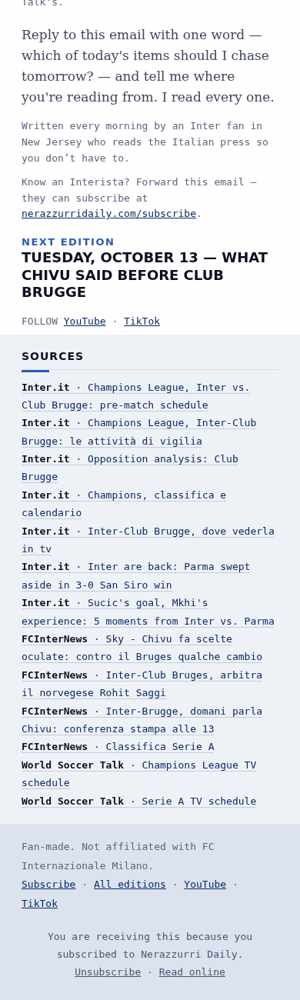
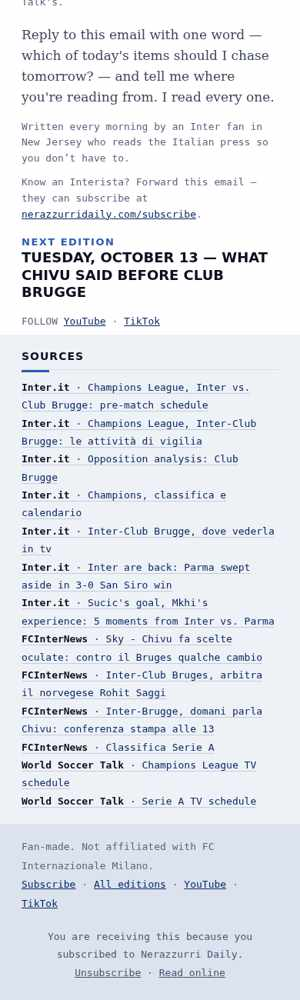
Edition No. 41 — copy fixes from the translation pass

diff --git a/p/edition-41/index.html b/p/edition-41/index.html
@@ -141,7 +141,7 @@ a{color:#0A2A66}
   </div>
 </div></div>
 <p class="fine" style="margin:10px 0 0">Free · one email a morning · unsubscribe any time</p></div>
-<div class="in"><table class="sb"><tbody><tr><td><div class="lbl">TODAY</div><div class="nm">No match</div><div class="tm">NEXT&nbsp;MATCH&nbsp;TUESDAY · 3:00&nbsp;PM&nbsp;ET</div></td></tr><tr><td><div class="lbl">LAST</div><div class="nm">Inter 3–0 Parma</div><div class="tm">SERIE&nbsp;A · MATCHDAY&nbsp;6 · SAN&nbsp;SIRO</div></td></tr><tr><td><div class="lbl">NEXT</div><div class="nm">Club Brugge<span class="chip">HOME</span></div><div class="tm">TUE,&nbsp;OCT&nbsp;13 · CHAMPIONS&nbsp;LEAGUE · 3:00&nbsp;PM&nbsp;ET</div></td></tr></tbody></table></div><div class="bar c"><span>CONFIRMED</span> <em>· CLUB · LEAGUE · UEFA</em></div><div class="item"><div class="in"><h3>Chivu speaks at 8:30 AM ET, and kickoff is Tuesday at 3:00 PM ET</h3><p>Inter trained at Appiano Gentile, Inter's training ground, at 5:00 AM ET on Monday. Cristian Chivu's official press conference follows there at 8:30 AM ET, which is 14:30 CEST. Club Brugge hold their own at San Siro at 12:45 PM ET, or 18:45 CEST.</p><p>Kickoff is Tuesday at 3:00 PM ET, 21:00 CEST, at San Siro. The Inter site FCInterNews had listed the press conference at 7:00 AM ET, or 13:00 CEST; the club's own time is the one printed here.</p><p class="kick">INTER.IT · OCT 11</p></div></div><div class="item"><div class="in"><h3>No points yet in the league phase, and 25th of 36</h3><p>Inter lost their opening league-phase match 2–1 at Real Madrid. Tuesday is the first of their four home matches in the phase.</p><p>Shakhtar Donetsk come to San Siro on Wednesday, October 21, and Inter go to Feyenoord on Tuesday, November 3.</p><p class="kick">INTER.IT · OCT 12</p></div></div><div class="item"><div class="in"><h3>Club Brugge arrive second in Belgium, with Sommer in goal</h3><p>Club Brugge have won seven of their first eight matches in the Belgian Pro League and sit second with 21 points, one behind Gent. In the Champions League they have no points either, after losing 3–2 at home to Aston Villa.</p><p>Ivan Leko, their head coach since 2025, plays a 4-2-3-1 that can become a 4-3-3. Inter's own analysis names the high line that Aston Villa punished on the counterattack as the way in.</p><p>Hans Vanaken, the captain, is the creative hub, and Yann Sommer, the former Inter goalkeeper, is in the Brugge goal.</p><p class="kick">INTER.IT · OCT 11</p></div></div><div class="bar r"><span>REPORTED</span> <em>· PRESS ONLY · NOT YET OFFICIAL</em></div><div class="item rep"><div class="in"><h3>Sky Sport Italia expects five starters back for Brugge</h3><p>Sky Sport Italia, relayed by FCInterNews, reports that Chivu will change the side. Lautaro Martínez, the captain and forward, is expected to start, with the midfielders Nicolò Barella and Piotr Zieliński and the defenders Alessandro Bastoni and Manuel Akanji. None of the five started against Parma.</p><p>Inter publish the lineup about an hour before kickoff.</p><p class="kick">SKY SPORT ITALIA VIA FCINTERNEWS · OCT 11</p></div></div><div class="item rep"><div class="in"><h3>Rohit Saggi of Norway has the match, with a Spanish VAR</h3><p>FCInterNews reports that Rohit Saggi, the Norwegian referee, has been appointed for Inter against Club Brugge. Carlos del Cerro Grande of Spain is on VAR.</p><p>UEFA makes the appointment, and its own page would not load this morning, so it stays under the rust bar.</p><p class="kick">FCINTERNEWS · OCT 11</p></div></div><div class="sec"><b>LATEST RESULT</b><em>SERIE A · MATCHDAY 6 · SAN SIRO</em></div><div class="item"><div class="in"><h3>Inter 3–0 Parma</h3><p>SUCIC 13' · ÇALHANOĞLU 18' (PEN) · THURAM 31'</p><p>Henrikh Mkhitaryan, the midfielder, made the third, and a video review gave the penalty.</p><p class="kick">SERIE A FORM · FIVE WINS AND A DRAW FROM SIX · TOP OF SERIE A WITH SIXTEEN POINTS</p></div></div><div class="sec"><b>NEXT UP</b><em>OCTOBER · EASTERN TIME FIRST, MILAN SECOND</em></div><div class="in"><table class="sb"><tbody><tr><td><div class="nm">Club Brugge<span class="chip">HOME</span></div><div class="meta">TUE,&nbsp;OCT&nbsp;13 · CHAMPIONS&nbsp;LEAGUE · MATCHDAY&nbsp;2</div><div class="tm"><b>3:00&nbsp;PM&nbsp;ET</b> · 21:00&nbsp;CEST · US&nbsp;TV:&nbsp;PARAMOUNT+ · VIX</div></td></tr><tr><td><div class="nm">Bologna<span class="chip">AWAY</span></div><div class="meta">SAT,&nbsp;OCT&nbsp;17 · SERIE&nbsp;A · MATCHDAY&nbsp;7</div><div class="tm"><b>12:00&nbsp;PM&nbsp;ET</b> · 18:00&nbsp;CEST · US&nbsp;TV:&nbsp;PARAMOUNT+ · PEACOCK&nbsp;PREMIUM</div></td></tr><tr><td><div class="nm">Shakhtar Donetsk<span class="chip">HOME</span></div><div class="meta">WED,&nbsp;OCT&nbsp;21 · CHAMPIONS&nbsp;LEAGUE · MATCHDAY&nbsp;3</div><div class="tm"><b>3:00&nbsp;PM&nbsp;ET</b> · 21:00&nbsp;CEST · US&nbsp;TV:&nbsp;PARAMOUNT+ · VIX</div></td></tr><tr><td><div class="nm">Fiorentina<span class="chip">HOME</span></div><div class="meta">SUN,&nbsp;OCT&nbsp;25 · SERIE&nbsp;A · MATCHDAY&nbsp;8</div><div class="tm"><b>7:30&nbsp;AM&nbsp;ET</b> · 12:30&nbsp;CET · US&nbsp;TV:&nbsp;PARAMOUNT+ · PEACOCK&nbsp;PREMIUM</div></td></tr><tr><td><div class="nm">Venezia<span class="chip">AWAY</span></div><div class="meta">WED,&nbsp;OCT&nbsp;28 · SERIE&nbsp;A · MATCHDAY&nbsp;9</div><div class="tm"><b>1:30&nbsp;PM&nbsp;ET</b> · 18:30&nbsp;CET · US&nbsp;TV:&nbsp;PARAMOUNT+ · PEACOCK&nbsp;PREMIUM</div></td></tr><tr><td><div class="nm">AC Milan<span class="chip">AWAY</span></div><div class="meta">SAT,&nbsp;OCT&nbsp;31 · SERIE&nbsp;A · MATCHDAY&nbsp;10</div><div class="tm"><b>3:45&nbsp;PM&nbsp;ET</b> · 20:45&nbsp;CET · US&nbsp;TV:&nbsp;PARAMOUNT+ · PEACOCK&nbsp;PREMIUM</div></td></tr></tbody></table></div><div class="signoff"><p class="note">Kickoff times are the club's, converted to Eastern. US listings are World Soccer Talk's.</p><p class="ask">Reply to this email with one word — which of today's items should I chase tomorrow? — and tell me where you're reading from. I read every one.</p><p class="byline">Written every morning by an Inter fan in New Jersey who reads the Italian press so you don’t have to.</p><p class="share">Know an Interista? Send them this one: <a href="https://x.com/intent/post?text=Club%20Brugge%20at%20San%20Siro%2C%20and%20Chivu%20speaks%20at%208%3A30%20AM%20ET%20%E2%80%94%20Nerazzurri%20Daily&url=https%3A//www.nerazzurridaily.com/p/edition-41/%3Futm_source%3Dshare%26utm_medium%3Dx%26utm_campaign%3Ded41" rel="noopener" target="_blank">X</a> · <a href="https://wa.me/?text=Club%20Brugge%20at%20San%20Siro%2C%20and%20Chivu%20speaks%20at%208%3A30%20AM%20ET%20%E2%80%94%20Nerazzurri%20Daily%20https%3A//www.nerazzurridaily.com/go/wa/%3Fed%3D41%26to%3D/p/edition-41/" rel="noopener" target="_blank">WhatsApp</a> · <a href="https://www.nerazzurridaily.com/go/copy/?ed=41&to=/p/edition-41/" id="copy-link">Copy link</a></p><div class="next"><b>Next edition</b><span>TUESDAY, OCTOBER 13 — WHAT CHIVU SAID BEFORE CLUB BRUGGE</span></div><p class="follow">FOLLOW <a href="https://www.youtube.com/@nerazzurridaily" rel="noopener">YouTube</a> · <a href="https://www.tiktok.com/@nerazzurridaily" rel="noopener">TikTok</a></p></div><div class="pn"><a href="/p/edition-40/"><small>← Previous edition · No. 40</small>Sucic opens, and Inter score three in half an hour</a><a class="next" id="pn-next" hidden href="/p/edition-42/"><small>Next edition · No. 42 →</small>Read it</a></div>
+<div class="in"><table class="sb"><tbody><tr><td><div class="lbl">TODAY</div><div class="nm">No match</div><div class="tm">NEXT&nbsp;MATCH&nbsp;TUESDAY · 3:00&nbsp;PM&nbsp;ET</div></td></tr><tr><td><div class="lbl">LAST</div><div class="nm">Inter 3–0 Parma</div><div class="tm">SERIE&nbsp;A · MATCHDAY&nbsp;6 · SAN&nbsp;SIRO</div></td></tr><tr><td><div class="lbl">NEXT</div><div class="nm">Club Brugge<span class="chip">HOME</span></div><div class="tm">TUE,&nbsp;OCT&nbsp;13 · CHAMPIONS&nbsp;LEAGUE · 3:00&nbsp;PM&nbsp;ET</div></td></tr></tbody></table></div><div class="bar c"><span>CONFIRMED</span> <em>· CLUB · LEAGUE · UEFA</em></div><div class="item"><div class="in"><h3>Chivu speaks at 8:30 AM ET, and kickoff is Tuesday at 3:00 PM ET</h3><p>Inter trained at Appiano Gentile, Inter's training ground, at 5:00 AM ET on Monday. Cristian Chivu's official press conference follows there at 8:30 AM ET, which is 14:30 CEST. Club Brugge's own press conference is at San Siro at 12:45 PM ET, or 18:45 CEST.</p><p>Kickoff is Tuesday at 3:00 PM ET, 21:00 CEST, at San Siro. The Inter site FCInterNews had listed the press conference at 7:00 AM ET, or 13:00 CEST; the club's own time is the one printed here.</p><p class="kick">INTER.IT · OCT 11</p></div></div><div class="item"><div class="in"><h3>No points yet in the league phase, and 25th of 36</h3><p>Inter lost their opening league-phase match 2–1 at Real Madrid. Tuesday is the first of their four home matches in the phase.</p><p>Shakhtar Donetsk come to San Siro on Wednesday, October 21, and Inter go to Feyenoord on Tuesday, November 3.</p><p class="kick">INTER.IT · OCT 12</p></div></div><div class="item"><div class="in"><h3>Club Brugge arrive second in Belgium, with Sommer in goal</h3><p>Club Brugge have won seven of their first eight matches in the Belgian Pro League and sit second with 21 points, one behind Gent. In the Champions League they have no points either, after losing 3–2 at home to Aston Villa.</p><p>Ivan Leko, their head coach since 2025, plays a 4-2-3-1 that can become a 4-3-3. Inter's own analysis points to the high defensive line that Aston Villa punished on the counterattack.</p><p>Hans Vanaken, the captain, is the creative hub, and Yann Sommer, the former Inter goalkeeper, is in the Brugge goal.</p><p class="kick">INTER.IT · OCT 11</p></div></div><div class="bar r"><span>REPORTED</span> <em>· PRESS ONLY · NOT YET OFFICIAL</em></div><div class="item rep"><div class="in"><h3>Sky Sport Italia expects five starters back for Brugge</h3><p>Sky Sport Italia, relayed by FCInterNews, reports that Chivu will change the side. Lautaro Martínez, the captain and forward, is expected to start, with the midfielders Nicolò Barella and Piotr Zieliński and the defenders Alessandro Bastoni and Manuel Akanji. None of the five started against Parma.</p><p>Inter publish the lineup about an hour before kickoff.</p><p class="kick">SKY SPORT ITALIA VIA FCINTERNEWS · OCT 11</p></div></div><div class="item rep"><div class="in"><h3>Rohit Saggi of Norway has the match, with a Spanish VAR</h3><p>FCInterNews reports that Rohit Saggi, the Norwegian referee, has been appointed for Inter against Club Brugge. Carlos del Cerro Grande of Spain is on VAR.</p><p>UEFA makes the appointment, and its own page would not load this morning, so it stays under the rust bar.</p><p class="kick">FCINTERNEWS · OCT 11</p></div></div><div class="sec"><b>LATEST RESULT</b><em>SERIE A · MATCHDAY 6 · SAN SIRO</em></div><div class="item"><div class="in"><h3>Inter 3–0 Parma</h3><p>SUCIC 13' · ÇALHANOĞLU 18' (PEN) · THURAM 31'</p><p>Henrikh Mkhitaryan, the midfielder, set up the third, and a video review gave the penalty.</p><p class="kick">SERIE A FORM · FIVE WINS AND A DRAW FROM SIX · TOP OF SERIE A WITH SIXTEEN POINTS</p></div></div><div class="sec"><b>NEXT UP</b><em>OCTOBER · EASTERN TIME FIRST, MILAN SECOND</em></div><div class="in"><table class="sb"><tbody><tr><td><div class="nm">Club Brugge<span class="chip">HOME</span></div><div class="meta">TUE,&nbsp;OCT&nbsp;13 · CHAMPIONS&nbsp;LEAGUE · MATCHDAY&nbsp;2</div><div class="tm"><b>3:00&nbsp;PM&nbsp;ET</b> · 21:00&nbsp;CEST · US&nbsp;TV:&nbsp;PARAMOUNT+ · VIX</div></td></tr><tr><td><div class="nm">Bologna<span class="chip">AWAY</span></div><div class="meta">SAT,&nbsp;OCT&nbsp;17 · SERIE&nbsp;A · MATCHDAY&nbsp;7</div><div class="tm"><b>12:00&nbsp;PM&nbsp;ET</b> · 18:00&nbsp;CEST · US&nbsp;TV:&nbsp;PARAMOUNT+ · PEACOCK&nbsp;PREMIUM</div></td></tr><tr><td><div class="nm">Shakhtar Donetsk<span class="chip">HOME</span></div><div class="meta">WED,&nbsp;OCT&nbsp;21 · CHAMPIONS&nbsp;LEAGUE · MATCHDAY&nbsp;3</div><div class="tm"><b>3:00&nbsp;PM&nbsp;ET</b> · 21:00&nbsp;CEST · US&nbsp;TV:&nbsp;PARAMOUNT+ · VIX</div></td></tr><tr><td><div class="nm">Fiorentina<span class="chip">HOME</span></div><div class="meta">SUN,&nbsp;OCT&nbsp;25 · SERIE&nbsp;A · MATCHDAY&nbsp;8</div><div class="tm"><b>7:30&nbsp;AM&nbsp;ET</b> · 12:30&nbsp;CET · US&nbsp;TV:&nbsp;PARAMOUNT+ · PEACOCK&nbsp;PREMIUM</div></td></tr><tr><td><div class="nm">Venezia<span class="chip">AWAY</span></div><div class="meta">WED,&nbsp;OCT&nbsp;28 · SERIE&nbsp;A · MATCHDAY&nbsp;9</div><div class="tm"><b>1:30&nbsp;PM&nbsp;ET</b> · 18:30&nbsp;CET · US&nbsp;TV:&nbsp;PARAMOUNT+ · PEACOCK&nbsp;PREMIUM</div></td></tr><tr><td><div class="nm">AC Milan<span class="chip">AWAY</span></div><div class="meta">SAT,&nbsp;OCT&nbsp;31 · SERIE&nbsp;A · MATCHDAY&nbsp;10</div><div class="tm"><b>3:45&nbsp;PM&nbsp;ET</b> · 20:45&nbsp;CET · US&nbsp;TV:&nbsp;PARAMOUNT+ · PEACOCK&nbsp;PREMIUM</div></td></tr></tbody></table></div><div class="signoff"><p class="note">Kickoff times are the club's, converted to Eastern. US listings are World Soccer Talk's.</p><p class="ask">Reply to this email with one word — which of today's items should I chase tomorrow? — and tell me where you're reading from. I read every one.</p><p class="byline">Written every morning by an Inter fan in New Jersey who reads the Italian press so you don’t have to.</p><p class="share">Know an Interista? Send them this one: <a href="https://x.com/intent/post?text=Club%20Brugge%20at%20San%20Siro%2C%20and%20Chivu%20speaks%20at%208%3A30%20AM%20ET%20%E2%80%94%20Nerazzurri%20Daily&url=https%3A//www.nerazzurridaily.com/p/edition-41/%3Futm_source%3Dshare%26utm_medium%3Dx%26utm_campaign%3Ded41" rel="noopener" target="_blank">X</a> · <a href="https://wa.me/?text=Club%20Brugge%20at%20San%20Siro%2C%20and%20Chivu%20speaks%20at%208%3A30%20AM%20ET%20%E2%80%94%20Nerazzurri%20Daily%20https%3A//www.nerazzurridaily.com/go/wa/%3Fed%3D41%26to%3D/p/edition-41/" rel="noopener" target="_blank">WhatsApp</a> · <a href="https://www.nerazzurridaily.com/go/copy/?ed=41&to=/p/edition-41/" id="copy-link">Copy link</a></p><div class="next"><b>Next edition</b><span>TUESDAY, OCTOBER 13 — WHAT CHIVU SAID BEFORE CLUB BRUGGE</span></div><p class="follow">FOLLOW <a href="https://www.youtube.com/@nerazzurridaily" rel="noopener">YouTube</a> · <a href="https://www.tiktok.com/@nerazzurridaily" rel="noopener">TikTok</a></p></div><div class="pn"><a href="/p/edition-40/"><small>← Previous edition · No. 40</small>Sucic opens, and Inter score three in half an hour</a><a class="next" id="pn-next" hidden href="/p/edition-42/"><small>Next edition · No. 42 →</small>Read it</a></div>
 <div class="ctaband"><span>Tomorrow’s edition lands at 6 AM Eastern.</span><a href="#subscribe">Get it free →</a></div>
 <div class="sources"><div class="sec"><b>Sources</b></div><p><a href="https://www.inter.it/en/news/champions-league-inter-vs-club-brugge-pre-match-schedule-26-27" rel="noopener"><b>Inter.it</b> · Champions League, Inter vs. Club Brugge: pre-match schedule</a><br>
 <a href="https://www.inter.it/it/notizie/champions-league-inter-club-brugge-programma-vigilia-26-27" rel="noopener"><b>Inter.it</b> · Champions League, Inter-Club Brugge: le attività di vigilia</a><br>
